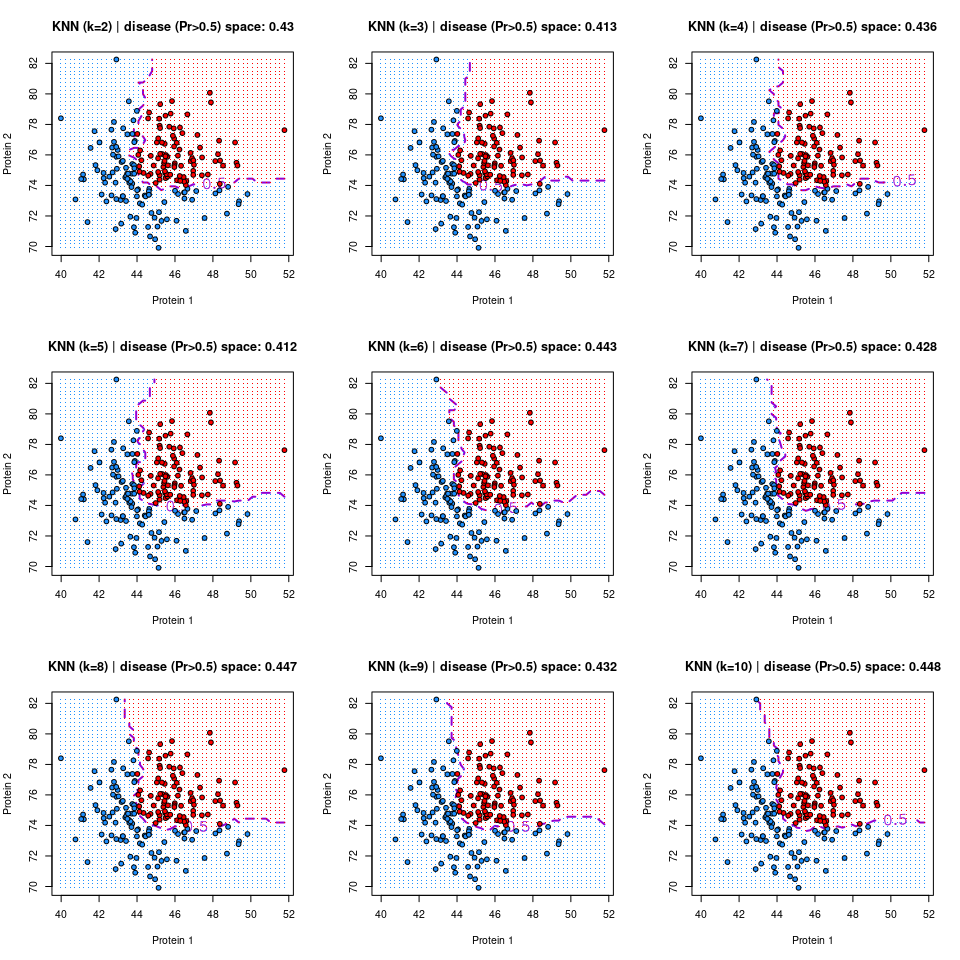
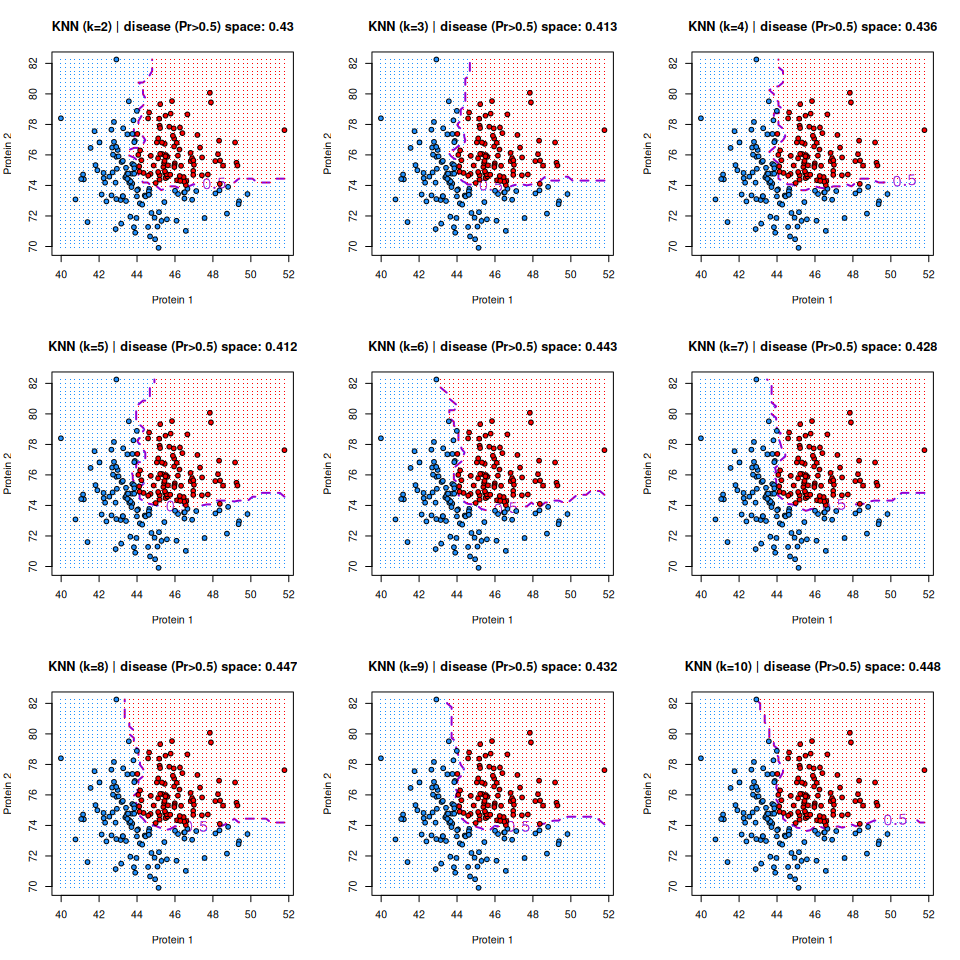
Move Decision Boundaries primer Quarto doc into repo

diff --git a/articles/decision-boundaries.md b/articles/decision-boundaries.md
@@ -2,7 +2,7 @@
 
 Stu Field
 
-19 September 2024
+15 November 2024
 
 ------------------------------------------------------------------------
 
@@ -26,10 +26,10 @@ the difference in the boundary between the two methods.
 par_def <- list(mgp = c(2.00, 0.75, 0.00), mar = c(3, 4, 3, 1))
 par(par_def)
 par(mfrow = c(2L, 2L))
-plot_decision_boundary(fake_data(), res = 15, model.type = "knn")
-plot_decision_boundary(fake_data(), res = 15, model.type = "bayes")
-plot_decision_boundary(fake_data2(), res = 15, model.type = "knn")
-plot_decision_boundary(fake_data2(), res = 15, model.type = "bayes")
+plot_decision_boundary(fake_data(), res = 50, model.type = "knn")
+plot_decision_boundary(fake_data(), res = 50, model.type = "bayes")
+plot_decision_boundary(fake_data2(), res = 50, model.type = "knn")
+plot_decision_boundary(fake_data2(), res = 50, model.type = "bayes")
 ```
 
 ![](figures/kknn-bayes-knn-vs-bayes-1.png)
@@ -39,8 +39,14 @@ plot_decision_boundary(fake_data2(), res = 15, model.type = "bayes")
 ``` r
 par(mfrow = c(3L, 3L))
 for ( i in 2:10 ) {
-  plot_decision_boundary(fake_data(), res = 15, model.type = "knn", k = i)
+  plot_decision_boundary(fake_data(), res = 50, model.type = "knn", k = i)
 }
 ```
 
 ![](figures/kknn-bayes-knn-k-1.png)
+
+------------------------------------------------------------------------
+
+### Code Reference
+
+TODO
